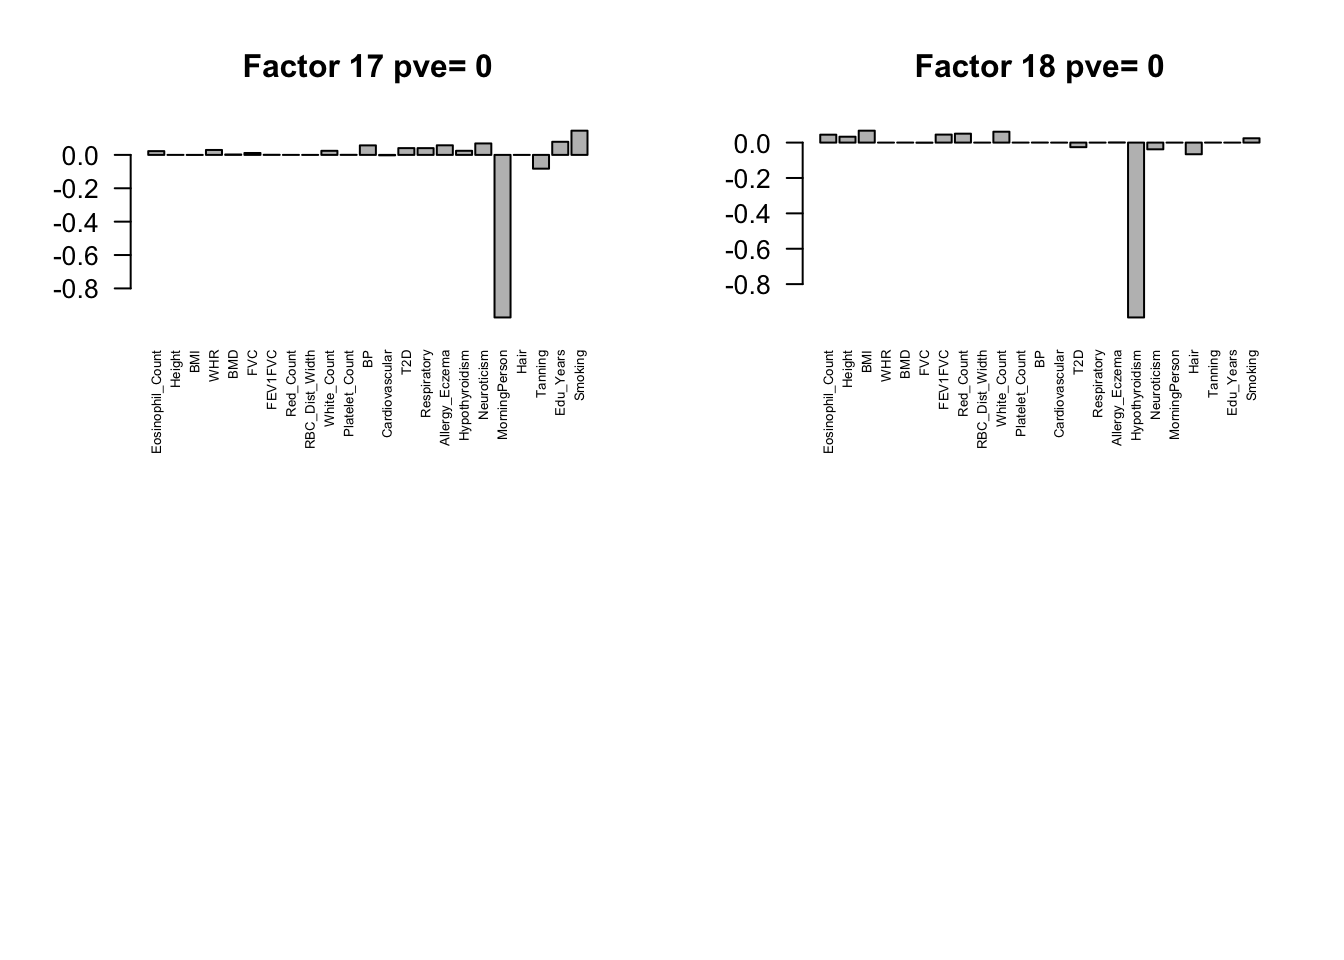
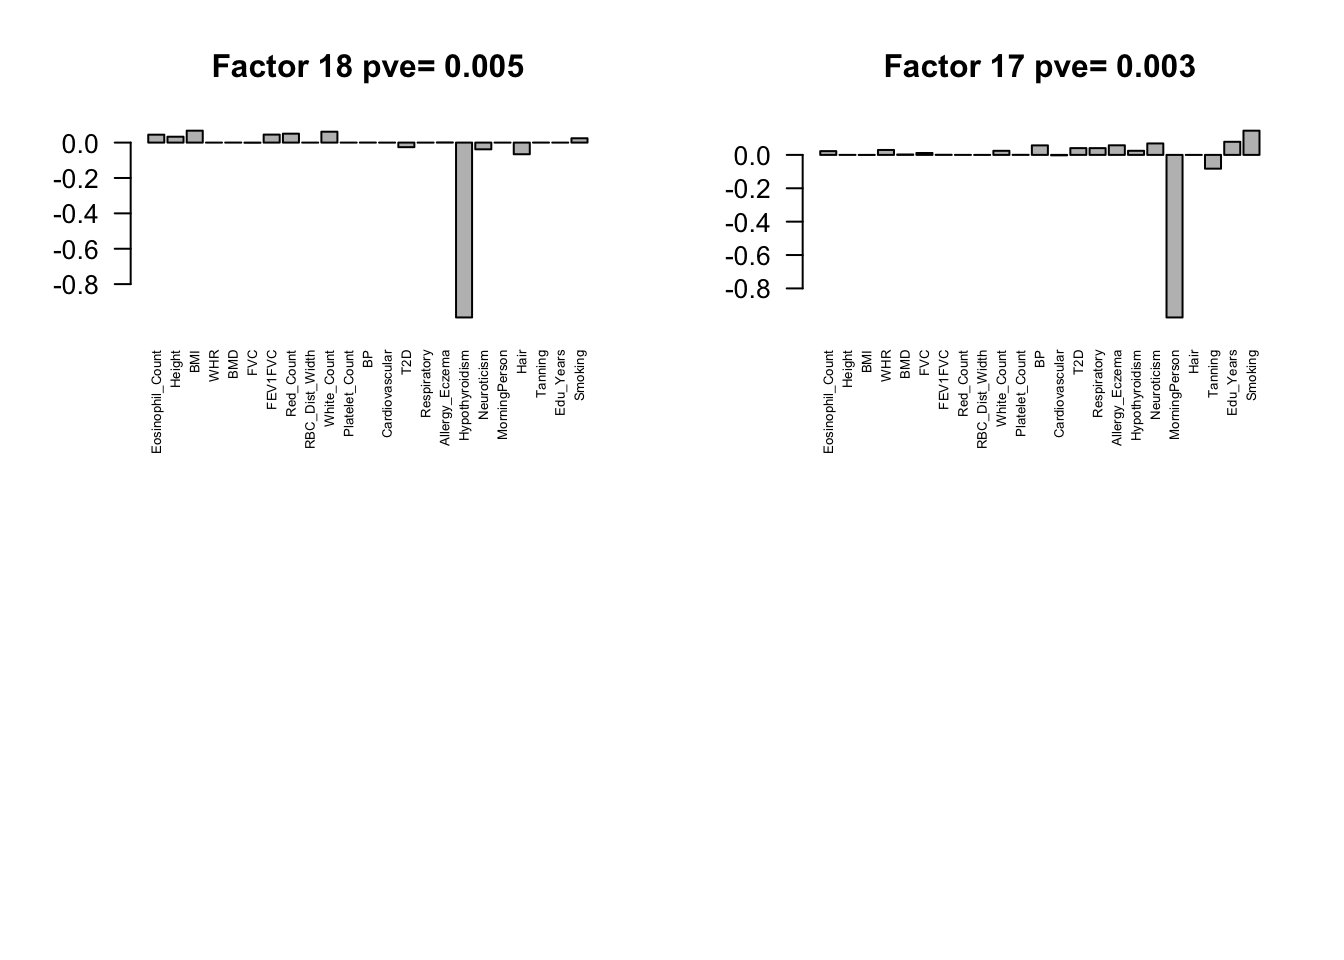
Build site.

diff --git a/docs/Flash_UKBio.html b/docs/Flash_UKBio.html
@@ -335,14 +335,14 @@ div.section {
 
 <!-- Update knitr chunk options -->
 <!-- Insert the date the file was last updated -->
-<p><strong>Last updated:</strong> 2018-05-30</p>
+<p><strong>Last updated:</strong> 2018-06-04</p>
 <!-- Insert the code version (Git commit SHA1) if Git repository exists and R
  package git2r is installed -->
-<p><strong>Code version:</strong> 0ddbf9c</p>
+<p><strong>Code version:</strong> 479d555</p>
 <pre><code>Loading required package: ashr</code></pre>
 <p>UKBioBank Strong data</p>
 <pre class="r"><code>data = readRDS(&#39;../data/UKBioBank/StrongData.rds&#39;)</code></pre>
-<p>Estimate se based on p values</p>
+<p>Estimate se based on <em>p values</em></p>
 <pre class="r"><code># Adjust p value == 0
 data$p[data$p == 0] = 1e-323
 mash.data = mash_set_data(Bhat = data$beta, pval = data$p)</code></pre>
@@ -374,8 +374,9 @@ fmodel = flash(flash.data, greedy = TRUE, backfit = TRUE)</code></pre>
 <pre><code>fitting factor/loading 19</code></pre>
 <pre class="r"><code>Factors = flash_get_ldf(fmodel)$f
 row.names(Factors) = colnames(Z)
+pve.order = order(flash_get_pve(fmodel), decreasing = TRUE)
 par(mfrow=c(2,2))
-for(i in 1:18){
+for(i in pve.order){
   barplot(Factors[,i], main=paste0(&#39;Factor &#39;,i, &#39; pve= &#39;, round(flash_get_pve(fmodel)[i],3)), las=2, cex.names = 0.5)
 }</code></pre>
 <p><img src="figure/Flash_UKBio.Rmd/unnamed-chunk-5-1.png" width="672" style="display: block; margin: auto;" /><img src="figure/Flash_UKBio.Rmd/unnamed-chunk-5-2.png" width="672" style="display: block; margin: auto;" /><img src="figure/Flash_UKBio.Rmd/unnamed-chunk-5-3.png" width="672" style="display: block; margin: auto;" /><img src="figure/Flash_UKBio.Rmd/unnamed-chunk-5-4.png" width="672" style="display: block; margin: auto;" /><img src="figure/Flash_UKBio.Rmd/unnamed-chunk-5-5.png" width="672" style="display: block; margin: auto;" /></p>
@@ -423,10 +424,10 @@ attached base packages:
 [1] stats     graphics  grDevices utils     datasets  methods   base     
 
 other attached packages:
-[1] mashr_0.2-10 ashr_2.2-7   flashr_0.5-6
+[1] mashr_0.2-10 ashr_2.2-7   flashr_0.5-8
 
 loaded via a namespace (and not attached):
- [1] Rcpp_0.12.16      compiler_3.4.4    pillar_1.2.2     
+ [1] Rcpp_0.12.17      compiler_3.4.4    pillar_1.2.2     
  [4] git2r_0.21.0      plyr_1.8.4        iterators_1.0.9  
  [7] tools_3.4.4       digest_0.6.15     evaluate_0.10.1  
 [10] tibble_1.4.2      gtable_0.2.0      lattice_0.20-35  
